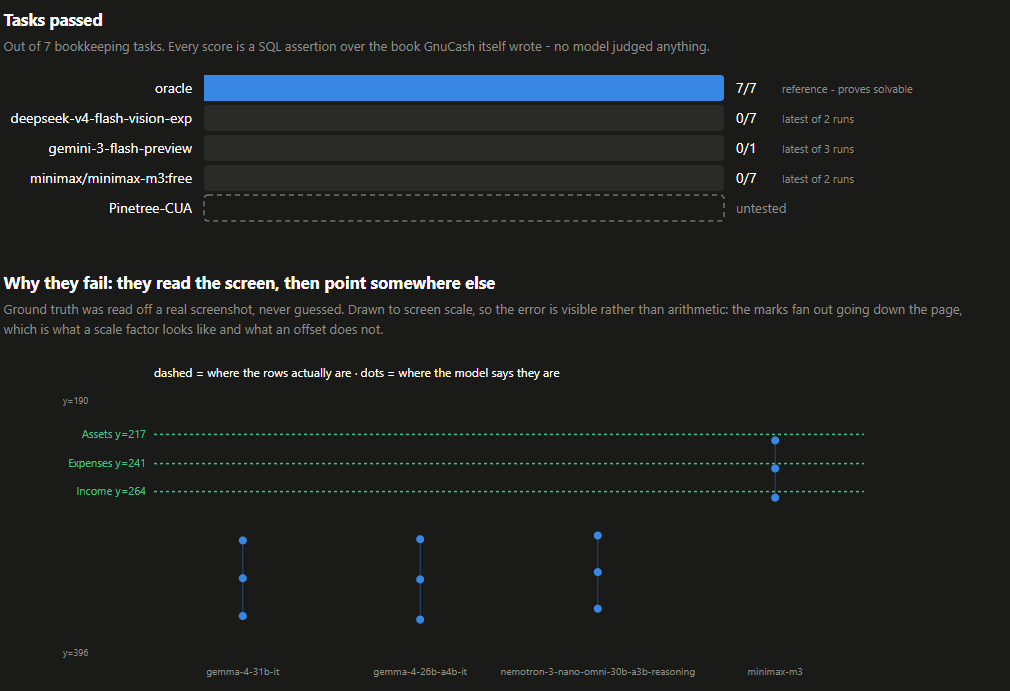
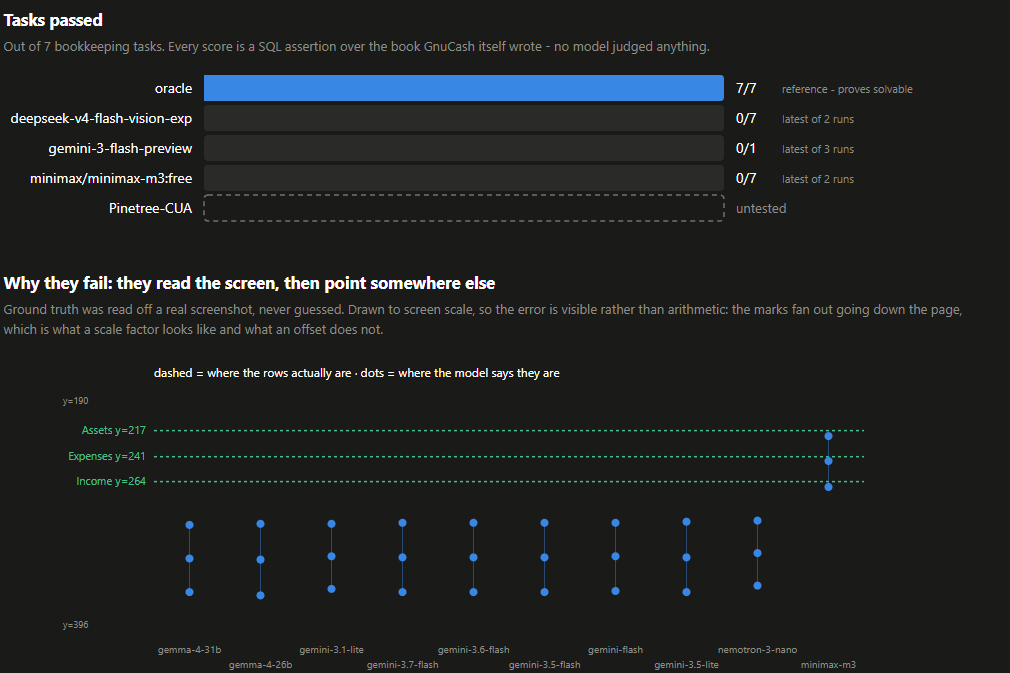
feat: eleven models on the localization chart, and say which ones are aliases
The chart showed four models because the probe only ever ran against OpenRouter, whose
free daily cap was spent. Gemini turns out to be reachable through an OpenAI-compatible
endpoint, and its quota is per model - twelve more were probed for nothing, six of which
answered.

Nine of eleven models now place a row that sits at y=217 at roughly y=300, R2 = 1.000
in every case.

The honest part: several Gemini entries return coordinates identical TO THE PIXEL
(302/334/366 for 3.5-flash, 3.6-flash and 3.7-flash alike). Those are very likely
aliases onto one checkpoint, so counting them as separate models would inflate the
claim. Both the README and the report now say to read this as four labs rather than
eleven models. It costs the headline number and it is the correct thing to publish.

Two fixes to the chart itself:

  short_label() - full ids are 30-50 characters and collided into a smear. The first
  attempt collapsed gemini-3.5-flash and gemini-3.5-flash-lite to the SAME label, which
  is worse than long names: two different checkpoints became indistinguishable. Variant
  markers (lite, nano, pro) are now preserved, and a test asserts no two models in the
  measured set share a label.

  Rotated labels clipped. Rotated text left the SVG box and lost its leading characters
  - every label rendered as "ma-4-31b" instead of "gemma-4-31b". Replaced with two
  staggered rows, which double the space per label, need no transform, and cannot clip.
[…]

diff --git a/report.html b/report.html
@@ -83,12 +83,16 @@ over the book GnuCash itself wrote - no model judged anything.</p>
 <p class="note">Ground truth was read off a real screenshot, never guessed. Drawn to
 screen scale, so the error is visible rather than arithmetic: the marks fan out going
 down the page, which is what a scale factor looks like and what an offset does not.</p>
-<figure><svg viewBox="0 0 900 330" width="100%" style="max-width:900px" role="img" aria-label="Claimed row positions against ground truth" font-family="inherit"><line class="truth" x1="150" y1="77.4" x2="860" y2="77.4" stroke="var(--ok)" stroke-width="1.5" stroke-dasharray="3 3"/><text x="142" y="80.9" text-anchor="end" font-size="11" fill="var(--ok)">Assets y=217</text><line class="truth" x1="150" y1="106.6" x2="860" y2="106.6" stroke="var(--ok)" stroke-width="1.5" stroke-dasharray="3 3"/><text x="142" y="110.1" text-anchor="end" font-size="11" fill="var(--ok)">Expenses y=241</text><line class="truth" x1="150" y1="134.6" x2="860" y2="134.6" stroke="var(--ok)" stroke-width="1.5" stroke-dasharray="3 3"/><text x="142" y="138.1" text-anchor="end" font-size="11" fill="var(--ok)">Income y=264</text><polyline points="238.8,183.4 238.8,221.2 238.8,259.0" fill="none" stroke="var(--series)" stroke-width="1" opacity="0.45"/><circle class="claim" data-y="304" cx="238.8" cy="183.4" r="4" fill="var(--series)"/><circle class="claim" data-y="335" cx="238.8" cy="221.2" r="4" fill="var(--series)"/><circle class="claim" data-y="366" cx="238.8" cy="259.0" r="4" fill="var(--series)"/><text x="238.8" y="318" text-anchor="middle" font-size="10" fill="var(--text-muted)">gemma-4-31b-it</text><polyline points="416.2,182.2 416.2,222.4 416.2,262.6" fill="none" stroke="var(--series)" stroke-width="1" opacity="0.45"/><circle class="claim" data-y="303" cx="416.2" cy="182.2" r="4" fill="var(--series)"/><circle class="claim" data-y="336" cx="416.2" cy="222.4" r="4" fill="var(--series)"/><circle class="claim" data-y="369" cx="416.2" cy="262.6" r="4" fill="var(--series)"/><text x="416.2" y="318" text-anchor="middle" font-size="10" fill="var(--text-muted)">gemma-4-26b-a4b-it</text><polyline points="593.8,178.5 593.8,215.1 593.8,251.7" fill="none" stroke="var(--series)" stroke-width="1" opacity="0.45"/><circle class="claim" data-y="300" cx="593.8" cy="178.5" r="4" fill="var(--series)"/><circle class="claim" data-y="330" cx="593.8" cy="215.1" r="4" fill="var(--series)"/><circle class="claim" data-y="360" cx="593.8" cy="251.7" r="4" fill="var(--series)"/><text x="593.8" y="318" text-anchor="middle" font-size="10" fill="var(--text-muted)">nemotron-3-nano-omni-30b-a3b-reasoning</text><polyline points="771.2,83.4 771.2,111.5 771.2,140.7" fill="none" stroke="var(--series)" stroke-width="1" opacity="0.45"/><circle class="claim" data-y="222" cx="771.2" cy="83.4" r="4" fill="var(--series)"/><circle class="claim" data-y="245" cx="771.2" cy="111.5" r="4" fill="var(--series)"/><circle class="claim" data-y="269" cx="771.2" cy="140.7" r="4" fill="var(--series)"/><text x="771.2" y="318" text-anchor="middle" font-size="10" fill="var(--text-muted)">minimax-m3</text><text x="150" y="20" font-size="12" fill="var(--text-primary)">dashed = where the rows actually are &#183; dots = where the model says they are</text><text x="84" y="47.0" text-anchor="end" font-size="9" fill="var(--text-muted)">y=190</text><text x="84" y="299.0" text-anchor="end" font-size="9" fill="var(--text-muted)">y=396</text></svg></figure>
+<figure><svg viewBox="0 0 900 330" width="100%" style="max-width:900px" role="img" aria-label="Claimed row positions against ground truth" font-family="inherit"><line class="truth" x1="150" y1="73.6" x2="860" y2="73.6" stroke="var(--ok)" stroke-width="1.5" stroke-dasharray="3 3"/><text x="142" y="77.1" text-anchor="end" font-size="11" fill="var(--ok)">Assets y=217</text><line class="truth" x1="150" y1="99.7" x2="860" y2="99.7" stroke="var(--ok)" stroke-width="1.5" stroke-dasharray="3 3"/><text x="142" y="103.2" text-anchor="end" font-size="11" fill="var(--ok)">Expenses y=241</text><line class="truth" x1="150" y1="124.6" x2="860" y2="124.6" stroke="var(--ok)" stroke-width="1.5" stroke-dasharray="3 3"/><text x="142" y="128.1" text-anchor="end" font-size="11" fill="var(--ok)">Income y=264</text><polyline points="185.5,167.9 185.5,201.5 185.5,235.1" fill="none" stroke="var(--series)" stroke-width="1" opacity="0.45"/><circle class="claim" data-y="304" cx="185.5" cy="167.9" r="4" fill="var(--series)"/><circle class="claim" data-y="335" cx="185.5" cy="201.5" r="4" fill="var(--series)"/><circle class="claim" data-y="366" cx="185.5" cy="235.1" r="4" fill="var(--series)"/><text class="collabel" x="185.5" y="296" text-anchor="middle" font-size="10" fill="var(--text-muted)">gemma-4-31b</text><polyline points="256.5,166.8 256.5,202.6 256.5,238.4" fill="none" stroke="var(--series)" stroke-width="1" opacity="0.45"/><circle class="claim" data-y="303" cx="256.5" cy="166.8" r="4" fill="var(--series)"/><circle class="claim" data-y="336" cx="256.5" cy="202.6" r="4" fill="var(--series)"/><circle class="claim" data-y="369" cx="256.5" cy="238.4" r="4" fill="var(--series)"/><text class="collabel" x="256.5" y="311" text-anchor="middle" font-size="10" fill="var(--text-muted)">gemma-4-26b</text><polyline points="327.5,166.8 327.5,199.3 327.5,231.9" fill="none" stroke="var(--series)" stroke-width="1" opacity="0.45"/><circle class="claim" data-y="303" cx="327.5" cy="166.8" r="4" fill="var(--series)"/><circle class="claim" data-y="333" cx="327.5" cy="199.3" r="4" fill="var(--series)"/><circle class="claim" data-y="363" cx="327.5" cy="231.9" r="4" fill="var(--series)"/><text class="collabel" x="327.5" y="296" text-anchor="middle" font-size="10" fill="var(--text-muted)">gemini-3.1-lite</text><polyline points="398.5,165.8 398.5,200.4 398.5,235.1" fill="none" stroke="var(--series)" stroke-width="1" opacity="0.45"/><circle class="claim" data-y="302" cx="398.5" cy="165.8" r="4" fill="var(--series)"/><circle class="claim" data-y="334" cx="398.5" cy="200.4" r="4" fill="var(--series)"/><circle class="claim" data-y="366" cx="398.5" cy="235.1" r="4" fill="var(--series)"/><text class="collabel" x="398.5" y="311" text-anchor="middle" font-size="10" fill="var(--text-muted)">gemini-3.7-flash</text><polyline points="469.5,165.8 469.5,200.4 469.5,235.1" fill="none" stroke="var(--series)" stroke-width="1" opacity="0.45"/><circle class="claim" data-y="302" cx="469.5" cy="165.8" r="4" fill="var(--series)"/><circle class="claim" data-y="334" cx="469.5" cy="200.4" r="4" fill="var(--series)"/><circle class="claim" data-y="366" cx="469.5" cy="235.1" r="4" fill="var(--series)"/><text class="collabel" x="469.5" y="296" text-anchor="middle" font-size="10" fill="var(--text-muted)">gemini-3.6-flash</text><polyline points="540.5,165.8 540.5,200.4 540.5,235.1" fill="none" stroke="var(--series)" stroke-width="1" opacity="0.45"/><circle class="claim" data-y="302" cx="540.5" cy="165.8" r="4" fill="var(--series)"/><circle class="claim" data-y="334" cx="540.5" cy="200.4" r="4" fill="var(--series)"/><circle class="claim" data-y="366" cx="540.5" cy="235.1" r="4" fill="var(--series)"/><text class="collabel" x="540.5" y="311" text-anchor="middle" font-size="10" fill="var(--text-muted)">gemini-3.5-flash</text><polyline points="611.5,165.8 611.5,199.3 611.5,234.0" fill="none" stroke="var(--series)" stroke-width="1" opacity="0.45"/><circle class="claim" data-y="302" cx="611.5" cy="165.8" r="4" fill="var(--series)"/><circle class="claim" data-y="333" cx="611.5" cy="199.3" r="4" fill="var(--series)"/><circle class="claim" data-y="365" cx="611.5" cy="234.0" r="4" fill="var(--series)"/><text class="collabel" x="611.5" y="296" text-anchor="middle" font-size="10" fill="var(--text-muted)">gemini-flash</text><polyline points="682.5,164.7 682.5,200.4 682.5,235.1" fill="none" stroke="var(--series)" stroke-width="1" opacity="0.45"/><circle class="claim" data-y="301" cx="682.5" cy="164.7" r="4" fill="var(--series)"/><circle class="claim" data-y="334" cx="682.5" cy="200.4" r="4" fill="var(--series)"/><circle class="claim" data-y="366" cx="682.5" cy="235.1" r="4" fill="var(--series)"/><text class="collabel" x="682.5" y="311" text-anchor="middle" font-size="10" fill="var(--text-muted)">gemini-3.5-lite</text><polyline points="753.5,163.6 753.5,196.1 753.5,228.6" fill="none" stroke="var(--series)" stroke-width="1" opacity="0.45"/><circle class="claim" data-y="300" cx="753.5" cy="163.6" r="4" fill="var(--series)"/><circle class="claim" data-y="330" cx="753.5" cy="196.1" r="4" fill="var(--series)"/><circle class="claim" data-y="360" cx="753.5" cy="228.6" r="4" fill="var(--series)"/><text class="collabel" x="753.5" y="296" text-anchor="middle" font-size="10" fill="var(--text-muted)">nemotron-3-nano</text><polyline points="824.5,79.1 824.5,104.0 824.5,130.0" fill="none" stroke="var(--series)" stroke-width="1" opacity="0.45"/><circle class="claim" data-y="222" cx="824.5" cy="79.1" r="4" fill="var(--series)"/><circle class="claim" data-y="245" cx="824.5" cy="104.0" r="4" fill="var(--series)"/><circle class="claim" data-y="269" cx="824.5" cy="130.0" r="4" fill="var(--series)"/><text class="collabel" x="824.5" y="311" text-anchor="middle" font-size="10" fill="var(--text-muted)">minimax-m3</text><text x="150" y="20" font-size="12" fill="var(--text-primary)">dashed = where the rows actually are &#183; dots = where the model says they are</text><text x="84" y="47.0" text-anchor="end" font-size="9" fill="var(--text-muted)">y=190</text><text x="84" y="271.0" text-anchor="end" font-size="9" fill="var(--text-muted)">y=396</text></svg></figure>
 <table><thead><tr><th>agent</th><th class="num">vertical scale</th>
 <th class="num">error (row heights)</th><th class="num">R&#178;</th></tr></thead>
-<tbody><tr><td>google/gemma-4-31b-it:free</td><td class="num">1.319</td><td class="num">3.9</td><td class="num">1.000</td></tr><tr><td>google/gemma-4-26b-a4b-it:free</td><td class="num">1.404</td><td class="num">4.0</td><td class="num">1.000</td></tr><tr><td>nvidia/nemotron-3-nano-omni-30b-a3b-reasoning:free</td><td class="num">1.276</td><td class="num">3.7</td><td class="num">1.000</td></tr><tr><td>minimax/minimax-m3:free</td><td class="num">1.000</td><td class="num">0.2</td><td class="num">0.999</td></tr></tbody></table>
+<tbody><tr><td>google/gemma-4-31b-it:free</td><td class="num">1.319</td><td class="num">3.9</td><td class="num">1.000</td></tr><tr><td>google/gemma-4-26b-a4b-it:free</td><td class="num">1.404</td><td class="num">4.0</td><td class="num">1.000</td></tr><tr><td>gemini-3.1-flash-lite</td><td class="num">1.276</td><td class="num">3.8</td><td class="num">1.000</td></tr><tr><td>gemini-3.7-flash</td><td class="num">1.361</td><td class="num">3.9</td><td class="num">1.000</td></tr><tr><td>gemini-3.6-flash</td><td class="num">1.361</td><td class="num">3.9</td><td class="num">1.000</td></tr><tr><td>gemini-3.5-flash</td><td class="num">1.361</td><td class="num">3.9</td><td class="num">1.000</td></tr><tr><td>gemini-flash-latest</td><td class="num">1.340</td><td class="num">3.9</td><td class="num">1.000</td></tr><tr><td>gemini-3.5-flash-lite</td><td class="num">1.383</td><td class="num">3.9</td><td class="num">1.000</td></tr><tr><td>nvidia/nemotron-3-nano-omni-30b-a3b-reasoning:free</td><td class="num">1.276</td><td class="num">3.7</td><td class="num">1.000</td></tr><tr><td>minimax/minimax-m3:free</td><td class="num">1.000</td><td class="num">0.2</td><td class="num">0.999</td></tr></tbody></table>
 <p class="note">A row is 24px tall. An R&#178; of 1.000 means the
 error is perfectly linear - not noise, and not a constant offset.</p>
+<p class="note"><strong>Count families, not model ids.</strong> Several Gemini entries
+return coordinates identical to the pixel, so they are very likely aliases onto one
+checkpoint and are not independent evidence. Read this as four labs - Google Gemini,
+Google Gemma, NVIDIA and MiniMax - rather than ten models.</p>
 
 
 <h2>Knowing where a row is, and aiming at it, are separate failures</h2>

diff --git a/cubicle/charts.py b/cubicle/charts.py
@@ -23,12 +23,42 @@ import html
 import json
 from pathlib import Path
 
+
+def short_label(model: str) -> str:
+    """A compact but identifiable column label.
+
+    Full ids are 30-50 characters and, rotated, ran off the left edge of the SVG and
+    were clipped mid-word. The table directly beneath the chart lists every full id.
+
+    Shortening must never merge two models. gemini-3.5-flash and gemini-3.5-flash-lite
+    are different checkpoints, and a naive truncation gave both the same label - so the
+    variant marker is preserved even when the rest is dropped.
+    """
+    name = str(model).split("/")[-1].replace(":free", "")
+    for suffix in ("-instruct", "-reasoning", "-preview", "-exp", "-it"):
+        if name.endswith(suffix):
+            name = name[: -len(suffix)]
+
+    parts = name.split("-")
+    markers = ("lite", "nano", "mini", "small", "pro", "max", "thinking")
+    variant = next((p for p in parts[2:] if p in markers), None)
+
+    keep = parts[:2]
+    if variant:
+        keep = keep + [variant]
+    elif len(parts) > 2 and len("-".join(parts[:3])) <= 16:
+        keep = parts[:3]
+
+    out = "-".join(keep)
+    return out if len(out) <= 16 else out[:16]
+
+
 LOC_W = 900
 LOC_H = 330
 LOC_PAD_L = 150
 LOC_PAD_R = 40
 LOC_TOP = 44
-LOC_BOT = 34
+LOC_BOT = 62
 
 
 def localization_svg(truth: dict, models: list, height_px: float = 720) -> str:
@@ -83,10 +113,16 @@ def localization_svg(truth: dict, models: list, height_px: float = 720) -> str:
                 '<circle class="claim" data-y="%g" cx="%.1f" cy="%.1f" r="4" '
                 'fill="var(--series)"/>' % (float(y), cx, sy(y))
             )
-        short = html.escape(str(label).split("/")[-1].replace(":free", ""))
+        short = html.escape(short_label(label))
+        # Level labels collide once columns are narrow. Rotating them was the first
+        # attempt and it clipped - rotated text left the SVG box and lost its leading
+        # characters, so "gemma-4-31b" rendered as "ma-4-31b". Two staggered rows give
+        # each label twice the width, need no transform, and cannot clip.
+        row = (i % 2) if col_w < 90 else 0
+        ly = LOC_H - 34 + row * 15
         out.append(
-            '<text x="%.1f" y="%d" text-anchor="middle" font-size="10" '
-            'fill="var(--text-muted)">%s</text>' % (cx, LOC_H - 12, short)
+            '<text class="collabel" x="%.1f" y="%d" text-anchor="middle" font-size="10" '
+            'fill="var(--text-muted)">%s</text>' % (cx, ly, short)
         )
 
     out.append(

diff --git a/tests/test_report.py b/tests/test_report.py
@@ -248,3 +248,52 @@ def test_load_localization_pools_every_probe_file(tmp_path):
 
     got = load_localization(d)
     assert sorted(m for m, _ in got["models"]) == ["early", "late"]
+
+
+def test_chart_labels_are_short_because_the_table_carries_the_full_id():
+    """Full model ids are 30-50 characters and collided into an unreadable smear.
+
+    The table directly beneath lists every full id, so the chart only has to make each
+    column identifiable - it is not the source of truth for names.
+    """
+    from cubicle.charts import short_label
+
+    assert short_label("google/gemma-4-26b-a4b-it:free") == "gemma-4-26b"
+    assert short_label("minimax/minimax-m3:free") == "minimax-m3"
+    assert all(len(short_label(m)) <= 16 for m in (
+        "google/gemma-4-31b-it:free", "gemini-flash-latest", "gemini-3.7-flash",
+        "nvidia/nemotron-3-nano-omni-30b-a3b-reasoning:free"))
+
+
+def test_shortening_never_makes_two_models_look_like_one():
+    """gemini-3.5-flash and gemini-3.5-flash-lite are different models that both
+    truncated to "gemini-3.5-flash". A reader comparing columns had no way to tell
+    which was which."""
+    from cubicle.charts import short_label
+
+    models = [
+        "google/gemma-4-31b-it:free", "google/gemma-4-26b-a4b-it:free",
+        "gemini-3.7-flash", "gemini-3.6-flash", "gemini-3.5-flash",
+        "gemini-3.5-flash-lite", "gemini-3.1-flash-lite", "gemini-flash-latest",
+        "nvidia/nemotron-3-nano-omni-30b-a3b-reasoning:free", "minimax/minimax-m3:free",
+    ]
+    labels = [short_label(m) for m in models]
+    assert len(set(labels)) == len(labels), f"collision: {labels}"
+
+
+def test_localization_labels_stagger_once_the_columns_get_narrow():
+    """Rotating narrow labels was the first attempt and it clipped: rotated text ran
+    outside the SVG box and lost its leading characters, so every label rendered as
+    "ma-4-31b" instead of "gemma-4-31b". Two staggered rows double the space per
+    label, need no transform, and cannot clip."""
+    import re
+
+    from cubicle.charts import localization_svg
+
+    many = [(f"vendor/model-{i}", [300, 330, 360]) for i in range(10)]
+    svg = localization_svg({"A": 217, "B": 241, "C": 264}, many)
+    assert "rotate(" not in svg, "rotation clips; stagger instead"
+    assert len(set(re.findall(r'class="collabel"[^>]*\by="(\d+)"', svg))) == 2
+
+    one = localization_svg({"A": 217}, [("only-one", [300, 330, 360])])
+    assert len(set(re.findall(r'class="collabel"[^>]*\by="(\d+)"', one))) == 1

diff --git a/cubicle/report.py b/cubicle/report.py
@@ -267,6 +267,10 @@ down the page, which is what a scale factor looks like and what an offset does n
 <tbody>{rows}</tbody></table>
 <p class="note">A row is {loc["row_height"]:.0f}px tall. An R&#178; of 1.000 means the
 error is perfectly linear - not noise, and not a constant offset.</p>
+<p class="note"><strong>Count families, not model ids.</strong> Several Gemini entries
+return coordinates identical to the pixel, so they are very likely aliases onto one
+checkpoint and are not independent evidence. Read this as four labs - Google Gemini,
+Google Gemma, NVIDIA and MiniMax - rather than ten models.</p>
 """
 
     ctl_html = ""

diff --git a/README.md b/README.md
@@ -122,15 +122,24 @@ over the positions each model claims:
 |---|---|---|---|---|---|---|
 | **truth** | 217 | 241 | 264 | 1.000 | — | — |
 | gemma-4-26b-a4b | 303 | 336 | 369 | 1.404 | **4.0 rows** | 1.000 |
+| gemini-3.5-flash-lite | 301 | 334 | 366 | 1.383 | **3.9 rows** | 1.000 |
+| gemini-3.5 / 3.6 / 3.7-flash | 302 | 334 | 366 | 1.361 | **3.9 rows** | 1.000 |
+| gemini-flash-latest | 302 | 333 | 365 | 1.340 | **3.9 rows** | 1.000 |
 | gemma-4-31b | 304 | 335 | 366 | 1.319 | **3.9 rows** | 1.000 |
 | Gemini flash-lite | 304 | 334 | 365 | 1.298 | **3.9 rows** | 1.000 |
+| gemini-3.1-flash-lite | 303 | 333 | 363 | 1.276 | **3.8 rows** | 1.000 |
 | nemotron-3-nano-omni | 300 | 330 | 360 | 1.276 | **3.7 rows** | 1.000 |
 | DeepSeek V4 Flash Vision | 230 | 256 | 282 | 1.106 | 0.6 rows | 1.000 |
 | MiniMax-M3 | 222 | 245 | 269 | ~1.0 | 0.2 rows | 0.999 |
 
-Four models from four different labs place a row that is at **y=217** at **y≈300**. R² is
-1.000 in every case: the error is not noise and not a constant offset but a **vertical
-scale factor**, so it grows the further down the screen you look.
+Nine of eleven place a row that is at **y=217** at **y≈300**. R² is 1.000 in every case:
+the error is not noise and not a constant offset but a **vertical scale factor**, so it
+grows the further down the screen you look.
+
+**Count families, not model ids.** Several Gemini entries return coordinates identical
+to the pixel, so they are very likely aliases onto one checkpoint and are not
+independent evidence. Read this as **four labs** — Google Gemini, Google Gemma, NVIDIA
+and MiniMax, plus DeepSeek — rather than eleven models.
 
 **It is not universal, and that matters more than the failures.** MiniMax-M3 has no
 systematic stretch. A benchmark on which every model scores identically measures
